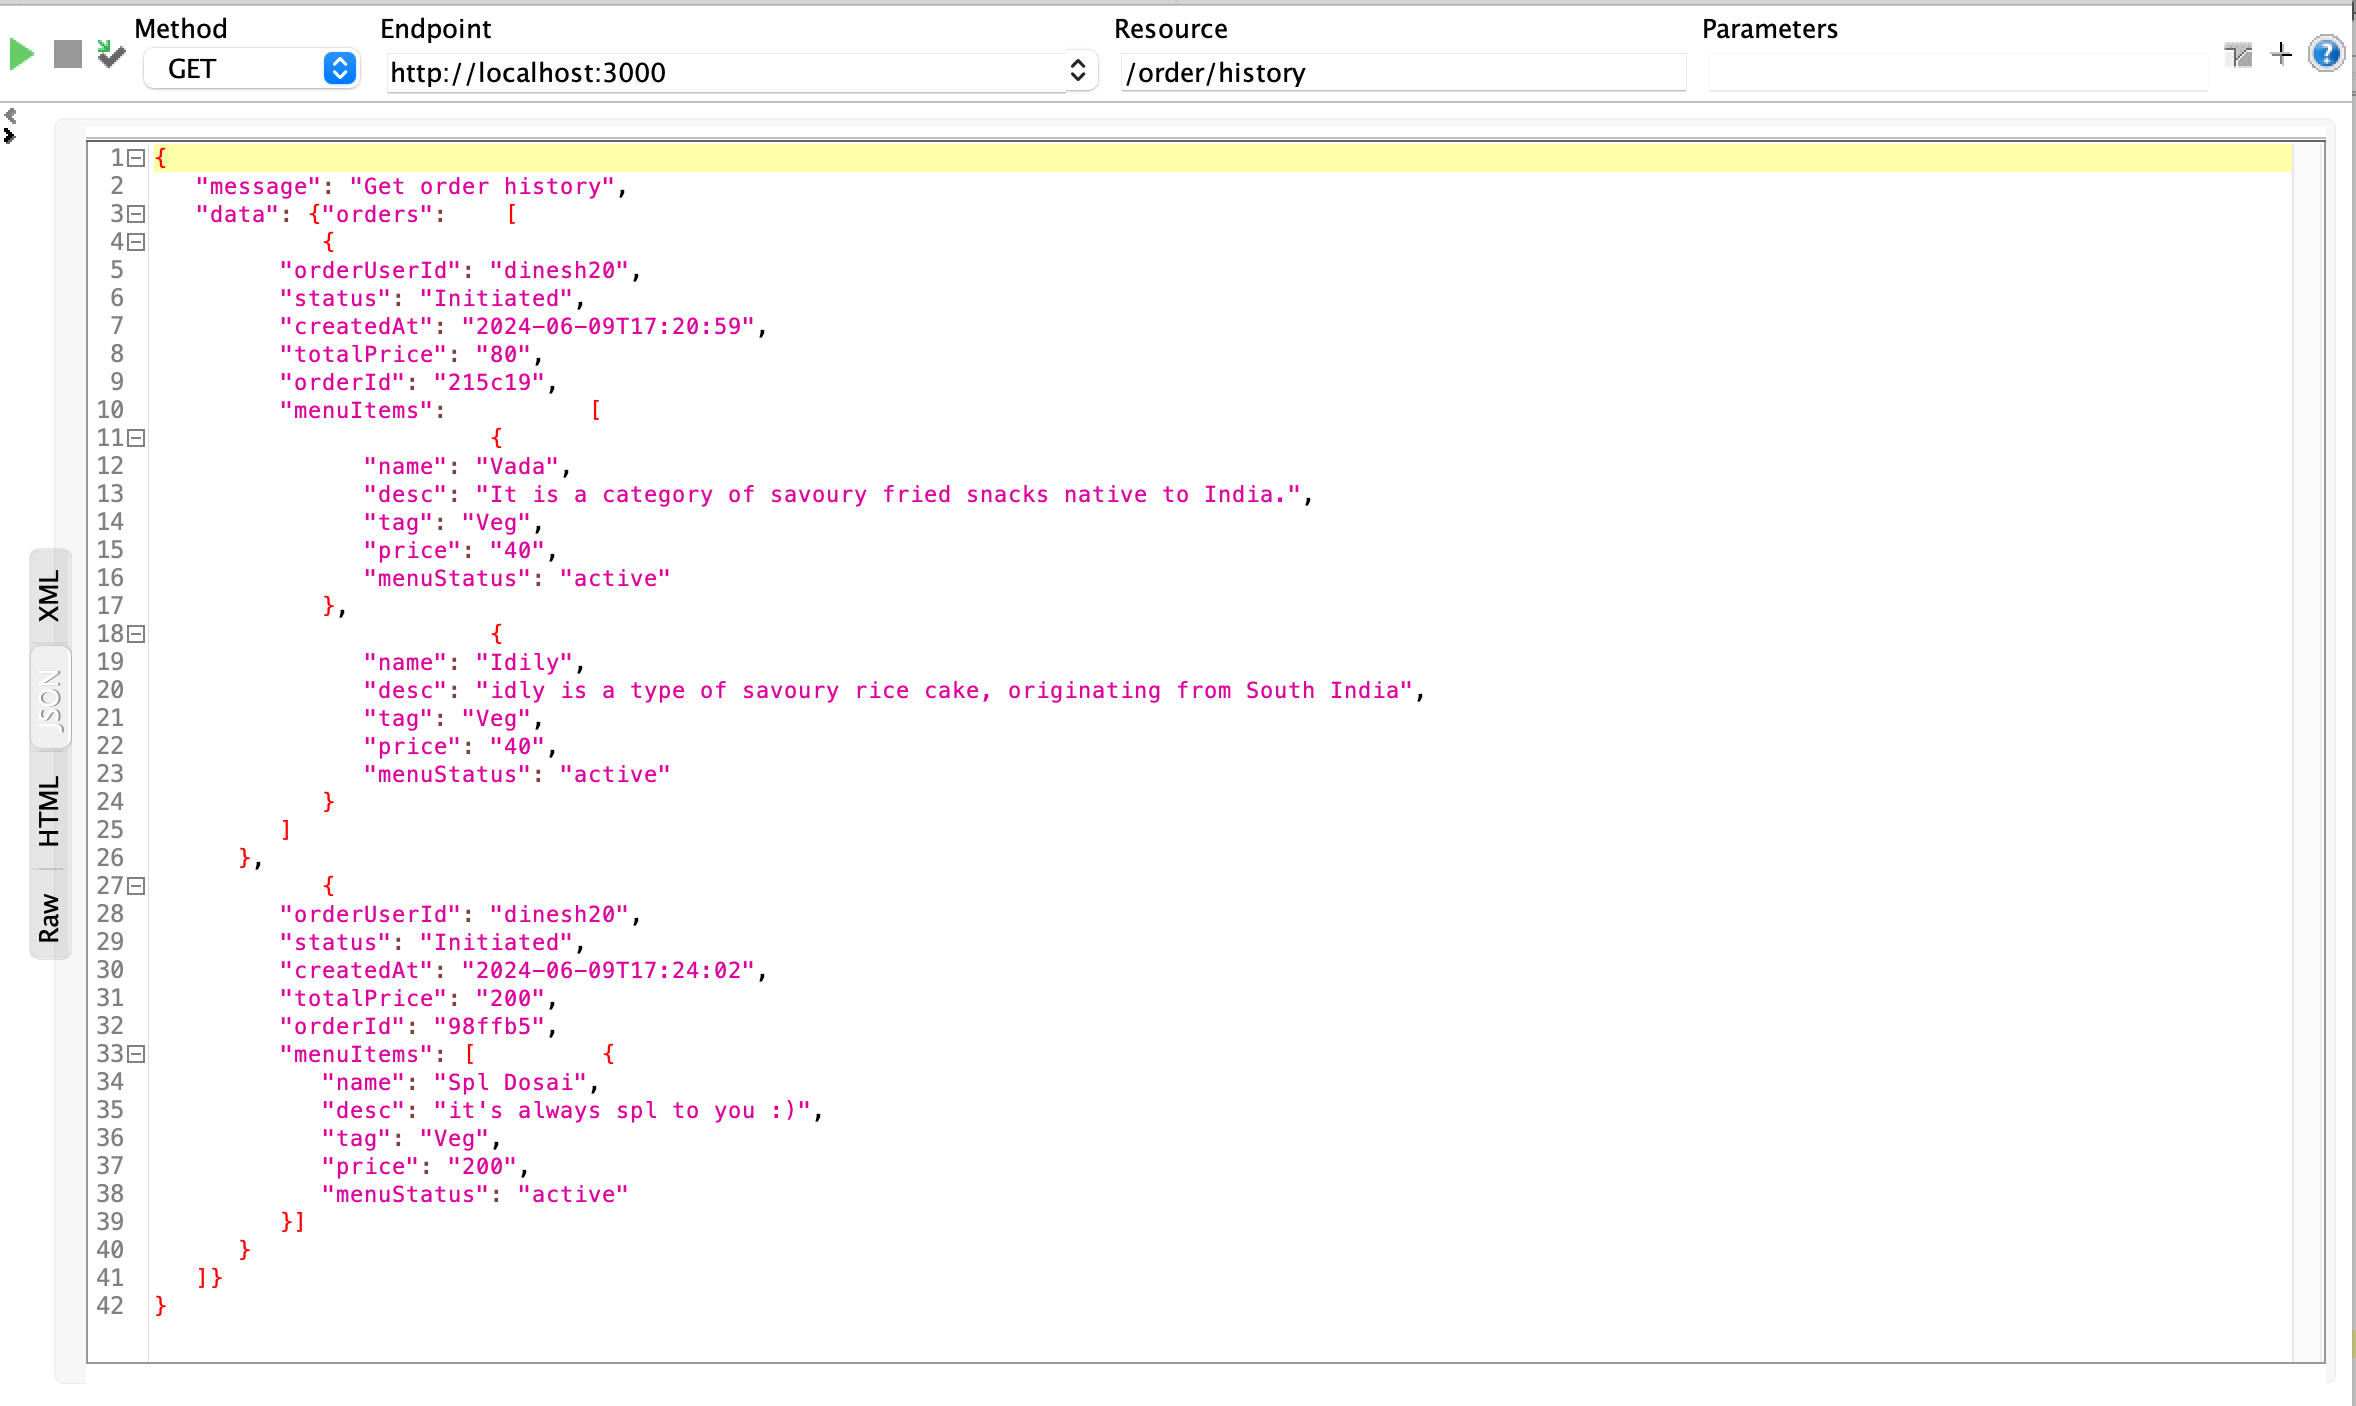
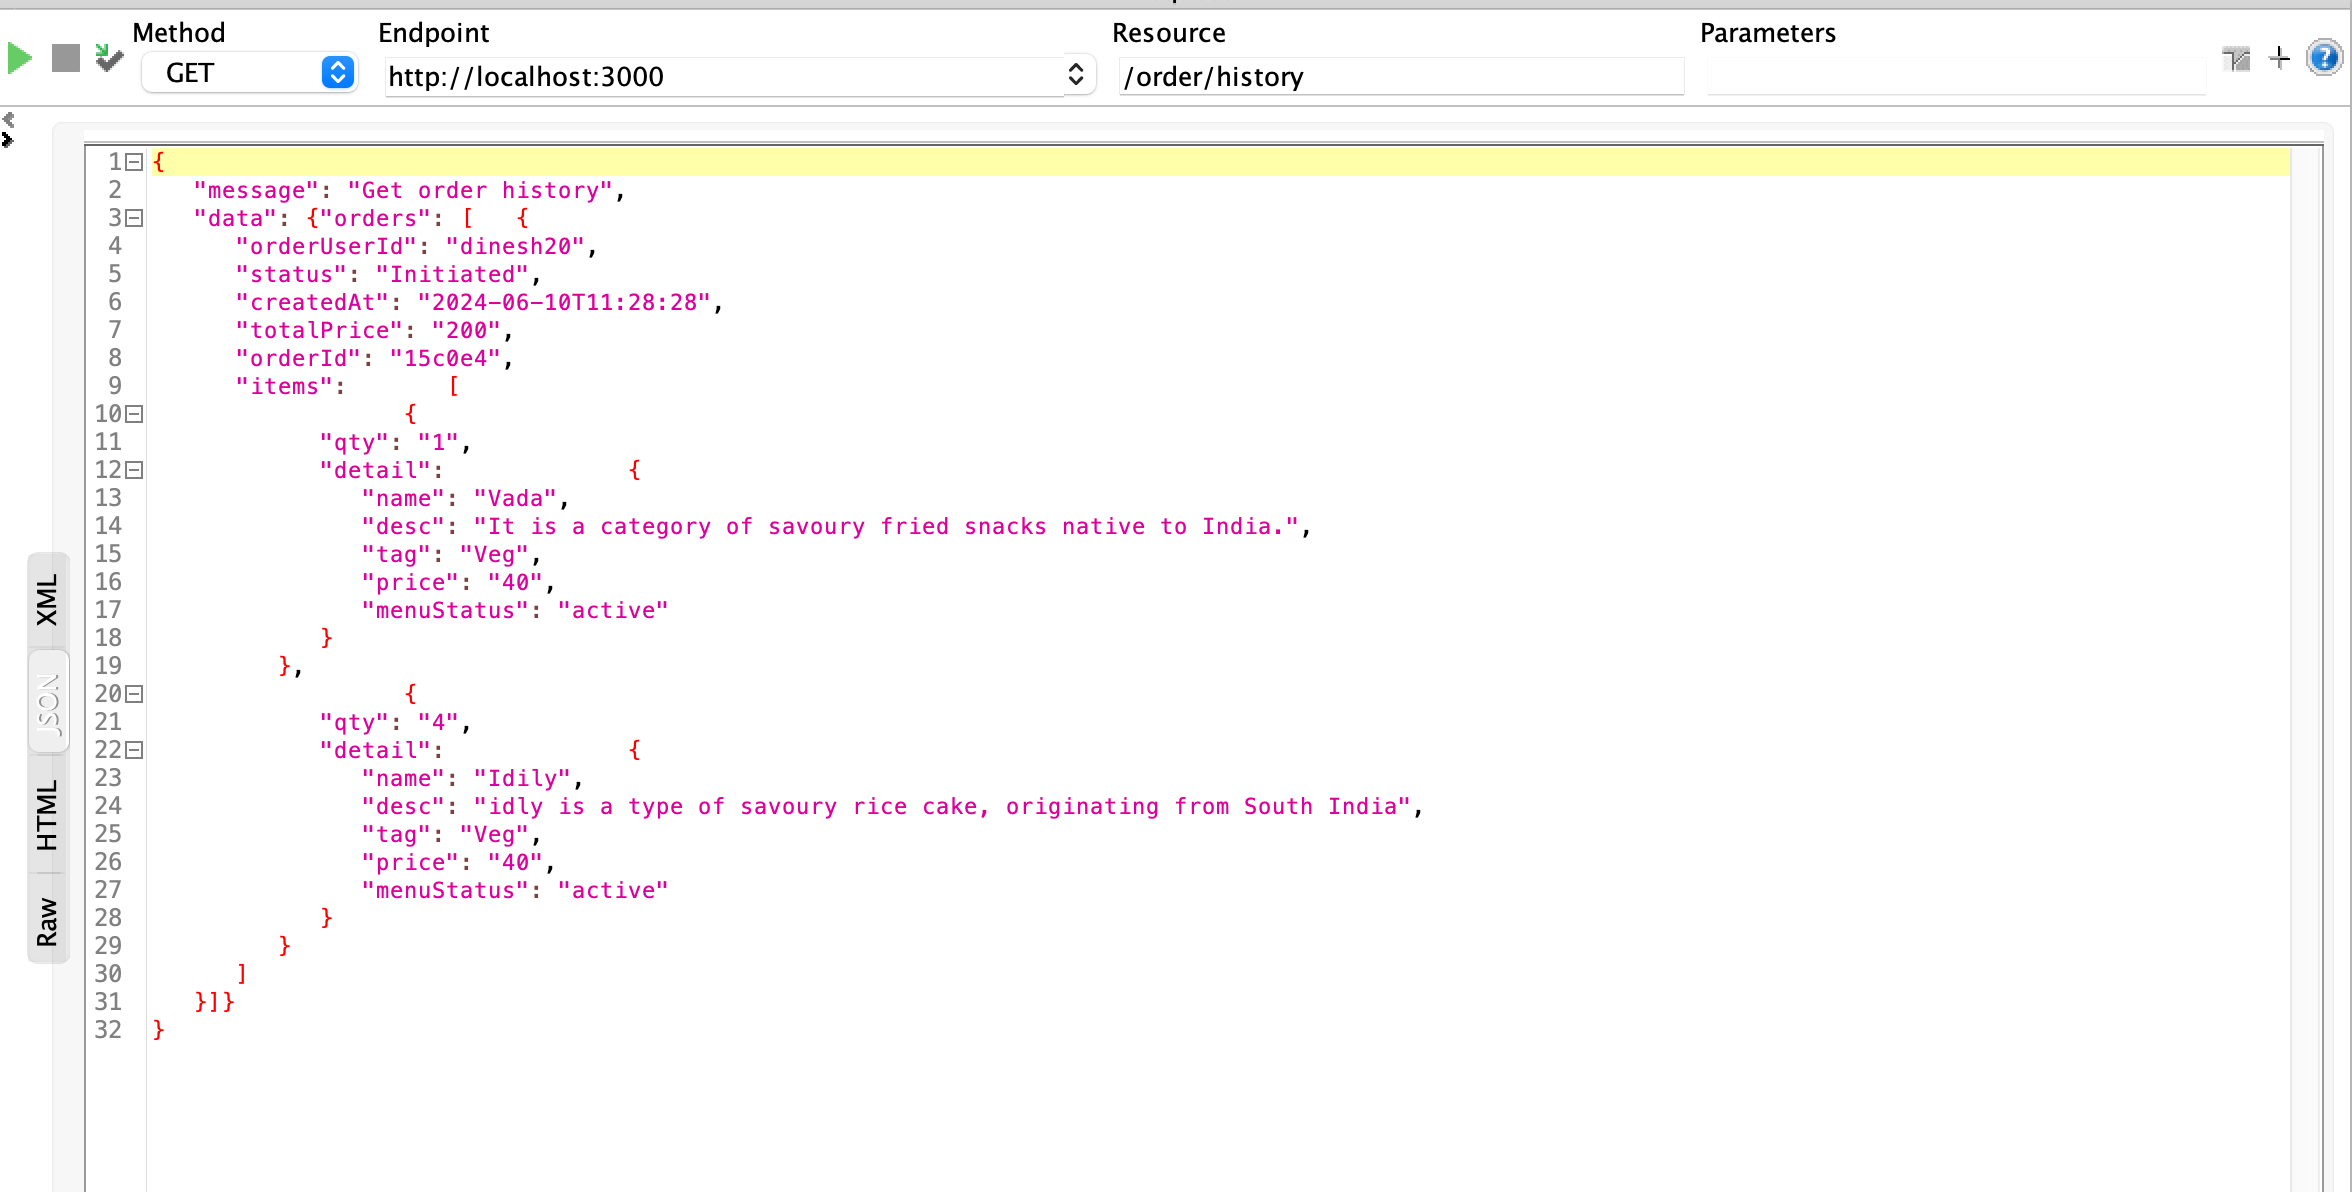
qty added in order item & total price calc updated

Changed region(s): [[0.0, 0.0, 1.0, 1.0], [0.1241, 0.5898, 0.5897, 0.8691]]

diff --git a/src/components/order/order-entity.ts b/src/components/order/order-entity.ts
@@ -6,7 +6,7 @@ import { CartItem } from "../cart/cart-model";
 import { OrderInfoCommand, OrderItemCommand } from "./order-command";
 import { MenuCommand } from "../menu/menu-command";
 import { CartCommand } from "../cart/cart-command";
-import { OrderInfo } from "./order-model";
+import { OrderInfo, OrderItem } from "./order-model";
 import logger from "../../lib/logger";
 
 export class OrderEntity {
@@ -18,7 +18,11 @@ export class OrderEntity {
         throw 'Cart Empty';
       }
 
-      const totalPrice = cartItem.reduce((prev: number, item: CartItem) => (prev + Number(item.detail?.price)), 0)
+      const totalPrice = cartItem.reduce((prev: number, item: CartItem) => {
+        const price = Number(item.detail?.price);
+        const qty = Number(item.qty)
+        return prev + (price * qty);
+      }, 0)
       const orderInfoCmd = new OrderInfoCommand()
       const addInfoCommand = orderInfoCmd.add(userId, totalPrice);
 
@@ -70,7 +74,11 @@ export class OrderEntity {
 
         const queryCmd = orderItemCmd.listQuery(orderInfo.orderId || '');
         const response = await dynamoDB.send(new QueryCommand(queryCmd));
-        orderInfo.menuItems = (response.Items || []).map((item: any) => menuCmd.getObjectFromAttributeMap(item.DETAIL.M));
+        orderInfo.items = (response.Items || []).map((item: any) => {
+          const orderItem:OrderItem = orderItemCmd.getObjectFromAttributeMap(item);
+          orderItem.detail = menuCmd.getObjectFromAttributeMap(orderItem.detail);
+          return orderItem;
+        });
 
         return orderInfo;
       })

diff --git a/src/components/order/order-model.ts b/src/components/order/order-model.ts
@@ -9,7 +9,7 @@ export interface OrderInfo {
   status:string;
   createdAt:string;
   totalPrice:number
-  menuItems?:MenuItem[];
+  items?:OrderItem[];
 }
 export interface OrderItem {
   qty:number;
